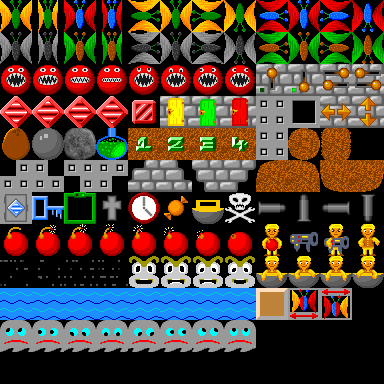
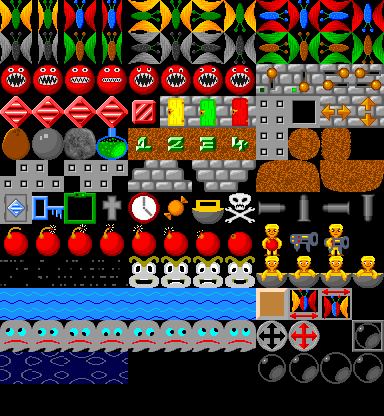
added some new graphics for BD engine game elements

diff --git a/src/conf_gfx.c b/src/conf_gfx.c
@@ -772,17 +772,17 @@ struct ConfigInfo image_config[] =
   { "bd_nut.falling.EDITOR.xpos",			"5"				},
   { "bd_nut.falling.EDITOR.ypos",			"2"				},
 
-  { "bd_bladder",					"boulder_rush.png"		},
-  { "bd_bladder.xpos",					"0"				},
-  { "bd_bladder.ypos",					"22"				},
-  { "bd_bladder.frames",				"1"				},
-  { "bd_bladder.scale_up_factor",			"2"				},
+  { "bd_bladder",					"RocksBD.png"			},
+  { "bd_bladder.xpos",					"8"				},
+  { "bd_bladder.ypos",					"11"				},
+  { "bd_bladder.frames",				"4"				},
+  { "bd_bladder.delay",					"4"				},
+  { "bd_bladder.anim_mode",				"pingpong2"			},
 
-  { "bd_bladder_spender",				"boulder_rush.png"		},
-  { "bd_bladder_spender.xpos",				"6"				},
-  { "bd_bladder_spender.ypos",				"0"				},
+  { "bd_bladder_spender",				"RocksBD.png"			},
+  { "bd_bladder_spender.xpos",				"11"				},
+  { "bd_bladder_spender.ypos",				"10"				},
   { "bd_bladder_spender.frames",			"1"				},
-  { "bd_bladder_spender.scale_up_factor",		"2"				},
 
   { "bd_creature_switch",				"RocksBD.png"			},
   { "bd_creature_switch.xpos",				"9"				},
@@ -813,28 +813,15 @@ struct ConfigInfo image_config[] =
   { "bd_biter_switch_4.ypos",				"4"				},
   { "bd_biter_switch_4.frames",				"1"				},
 
-  { "bd_replicator",					"boulder_rush.png"		},
-  { "bd_replicator.xpos",				"0"				},
-  { "bd_replicator.ypos",				"38"				},
-  { "bd_replicator.frames",				"1"				},
-  { "bd_replicator.scale_up_factor",			"2"				},
-  { "bd_replicator.active",				"boulder_rush.png"		},
-  { "bd_replicator.active.xpos",			"0"				},
-  { "bd_replicator.active.ypos",			"38"				},
-  { "bd_replicator.active.frames",			"8"				},
-  { "bd_replicator.active.delay",			"2"				},
-  { "bd_replicator.active.scale_up_factor",		"2"				},
+  { "bd_replicator",					UNDEFINED_FILENAME		},
+  { "bd_replicator.clone_from",				"emc_magic_ball"		},
+  { "bd_replicator.active",				UNDEFINED_FILENAME		},
+  { "bd_replicator.active.clone_from",			"emc_magic_ball.active"		},
 
-  { "bd_replicator_switch",				"boulder_rush.png"		},
-  { "bd_replicator_switch.xpos",			"3"				},
-  { "bd_replicator_switch.ypos",			"36"				},
-  { "bd_replicator_switch.frames",			"1"				},
-  { "bd_replicator_switch.scale_up_factor",		"2"				},
-  { "bd_replicator_switch.active",			"boulder_rush.png"		},
-  { "bd_replicator_switch.active.xpos",			"2"				},
-  { "bd_replicator_switch.active.ypos",			"36"				},
-  { "bd_replicator_switch.active.frames",		"1"				},
-  { "bd_replicator_switch.active.scale_up_factor",	"2"				},
+  { "bd_replicator_switch",				UNDEFINED_FILENAME		},
+  { "bd_replicator_switch.clone_from",			"emc_magic_ball_switch"		},
+  { "bd_replicator_switch.active",			UNDEFINED_FILENAME		},
+  { "bd_replicator_switch.active.clone_from",		"emc_magic_ball_switch.active"	},
 
   { "bd_conveyor_left",					"RocksDC.png"			},
   { "bd_conveyor_left.xpos",				"0"				},
@@ -881,16 +868,14 @@ struct ConfigInfo image_config[] =
   { "bd_conveyor_dir_switch.active.ypos",		"2"				},
   { "bd_conveyor_dir_switch.active.frames",		"1"				},
 
-  { "bd_gravity_switch",				"boulder_rush.png"		},
-  { "bd_gravity_switch.xpos",				"2"				},
-  { "bd_gravity_switch.ypos",				"34"				},
+  { "bd_gravity_switch",				"RocksBD.png"			},
+  { "bd_gravity_switch.xpos",				"8"				},
+  { "bd_gravity_switch.ypos",				"10"				},
   { "bd_gravity_switch.frames",				"1"				},
-  { "bd_gravity_switch.scale_up_factor",		"2"				},
-  { "bd_gravity_switch.active",				"boulder_rush.png"		},
-  { "bd_gravity_switch.active.xpos",			"3"				},
-  { "bd_gravity_switch.active.ypos",			"34"				},
+  { "bd_gravity_switch.active",				"RocksBD.png"			},
+  { "bd_gravity_switch.active.xpos",			"9"				},
+  { "bd_gravity_switch.active.ypos",			"10"				},
   { "bd_gravity_switch.active.frames",			"1"				},
-  { "bd_gravity_switch.active.scale_up_factor",		"2"				},
 
   { "bd_acid",						"boulder_rush.png"		},
   { "bd_acid.xpos",					"4"				},
@@ -983,11 +968,12 @@ struct ConfigInfo image_config[] =
   { "bd_voodoo_doll.frames",				"1"				},
   { "bd_voodoo_doll.scale_up_factor",			"2"				},
 
-  { "bd_slime",						"boulder_rush.png"		},
+  { "bd_slime",						"RocksBD.png"			},
   { "bd_slime.xpos",					"0"				},
-  { "bd_slime.ypos",					"25"				},
-  { "bd_slime.frames",					"1"				},
-  { "bd_slime.scale_up_factor",				"2"				},
+  { "bd_slime.ypos",					"11"				},
+  { "bd_slime.frames",					"4"				},
+  { "bd_slime.delay",					"4"				},
+  { "bd_slime.anim_mode",				"pingpong2"			},
 
   { "bd_waiting_rock",					UNDEFINED_FILENAME		},
   { "bd_waiting_rock.clone_from",			"bd_rock"			},
